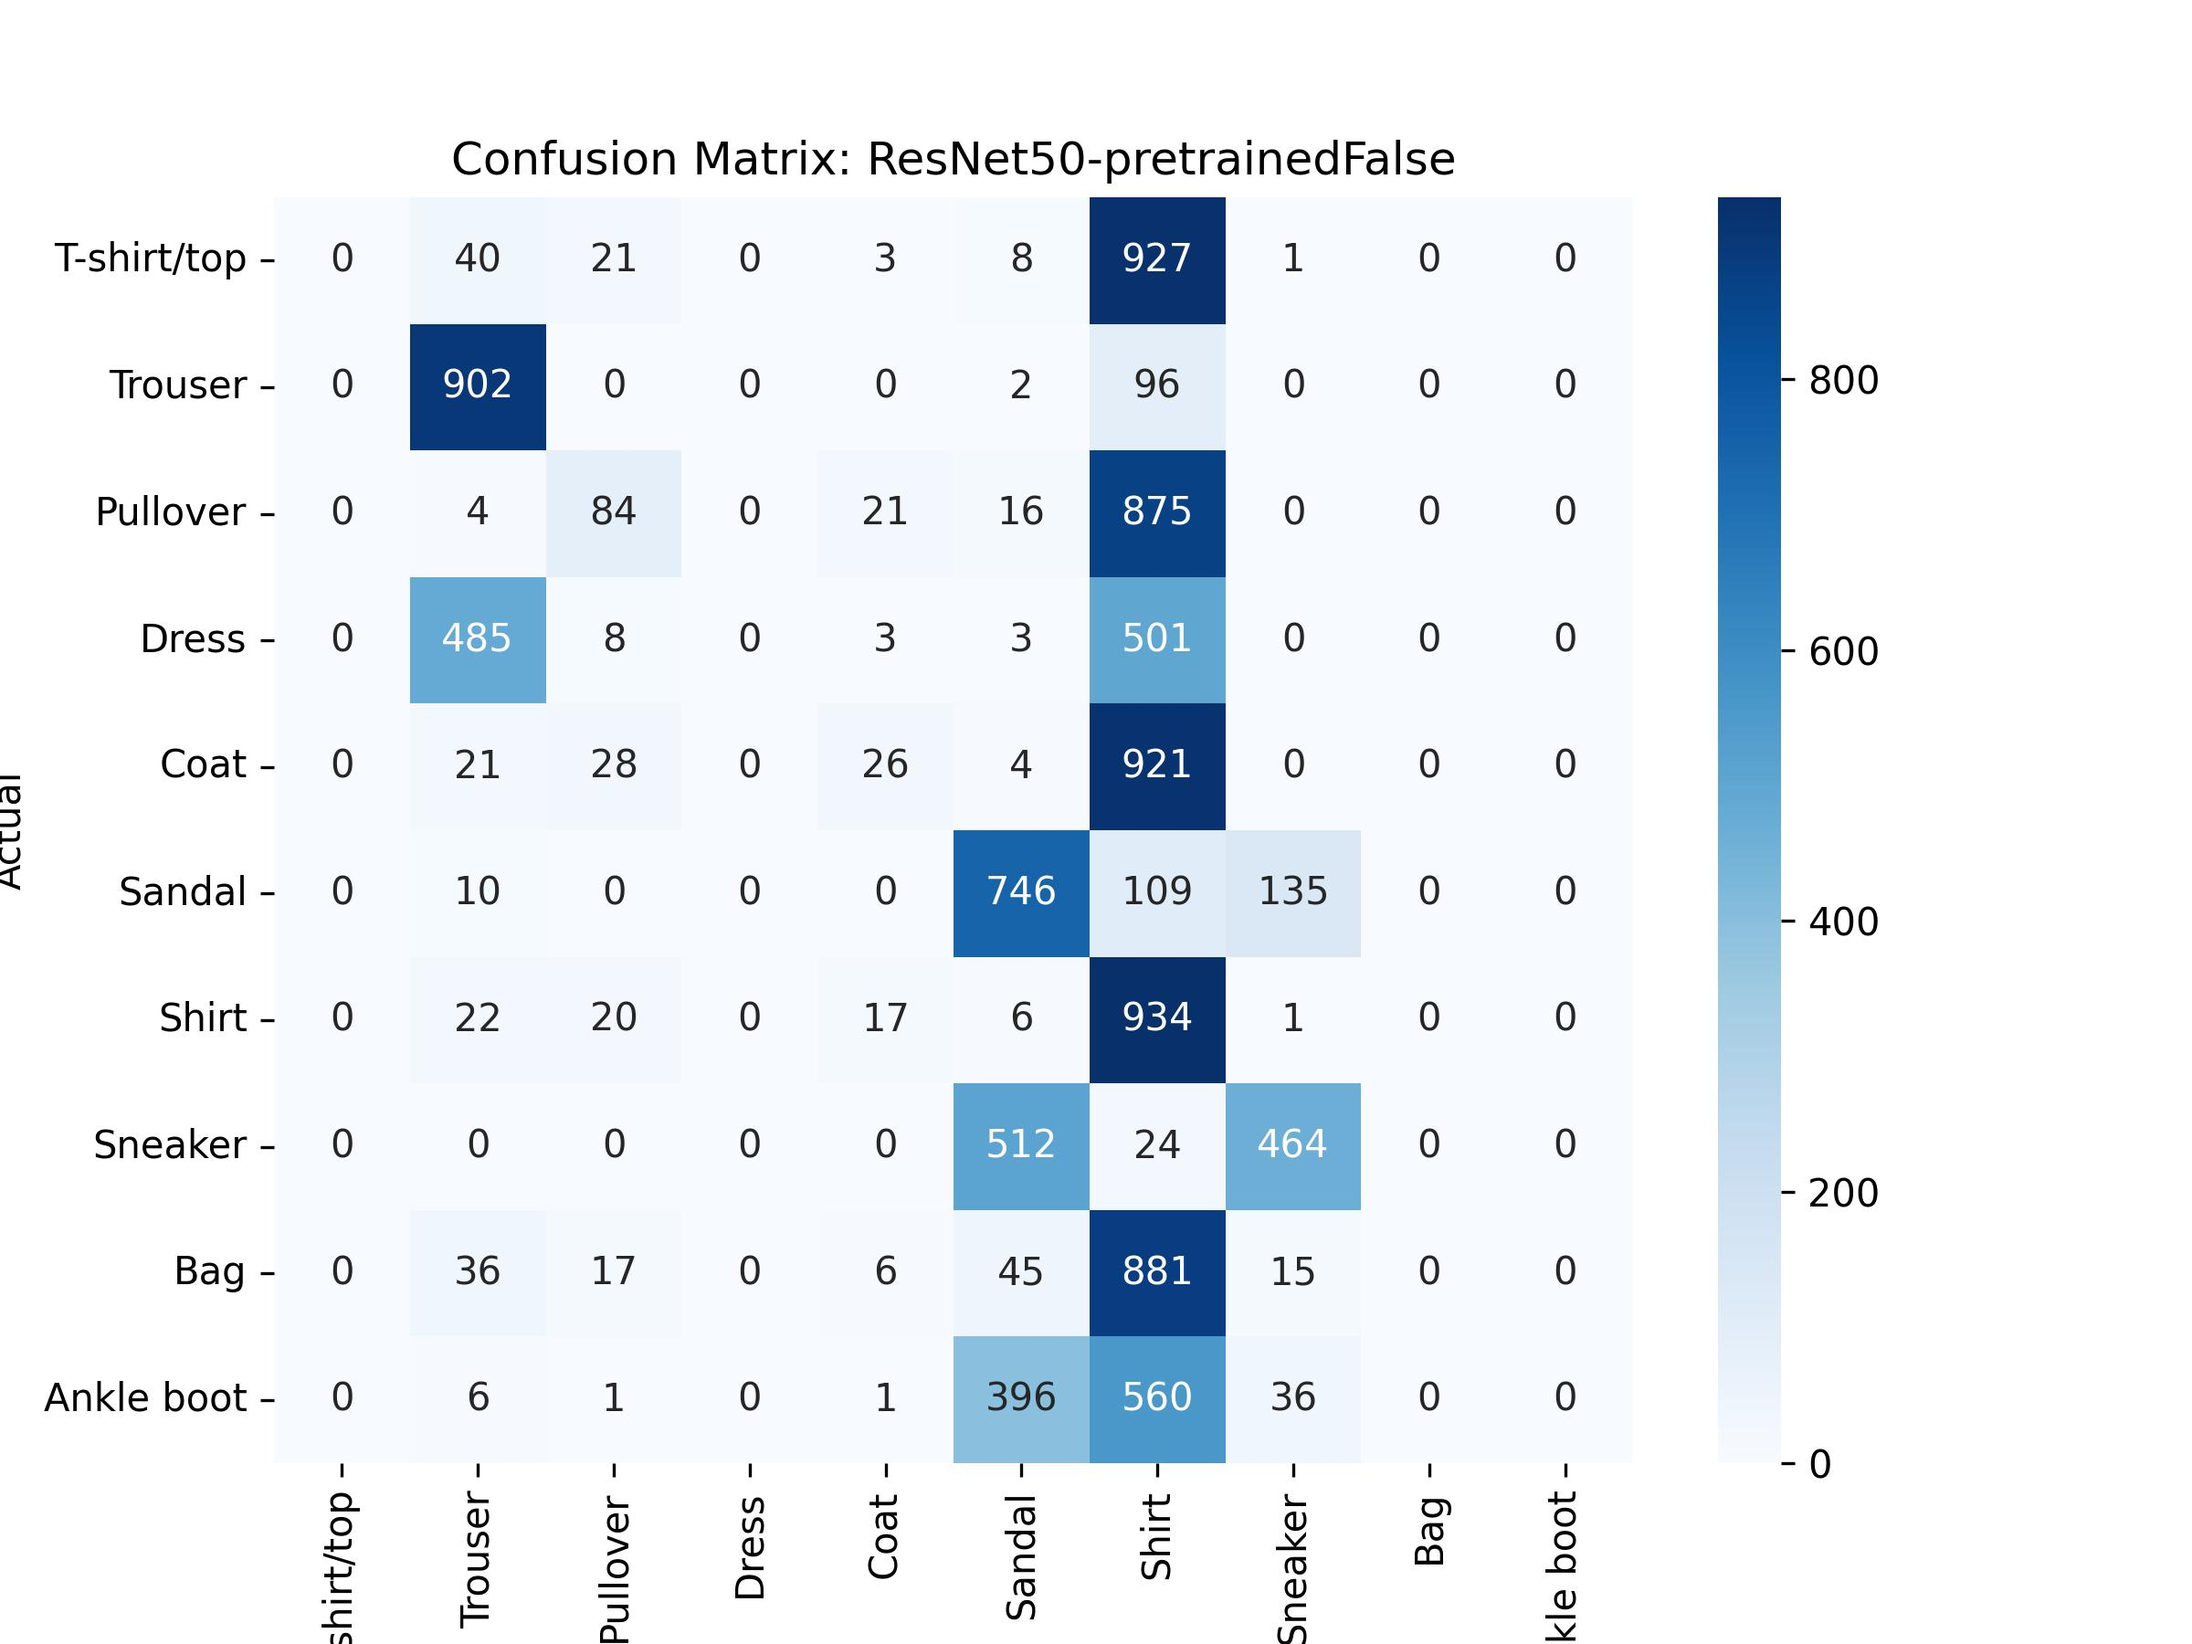
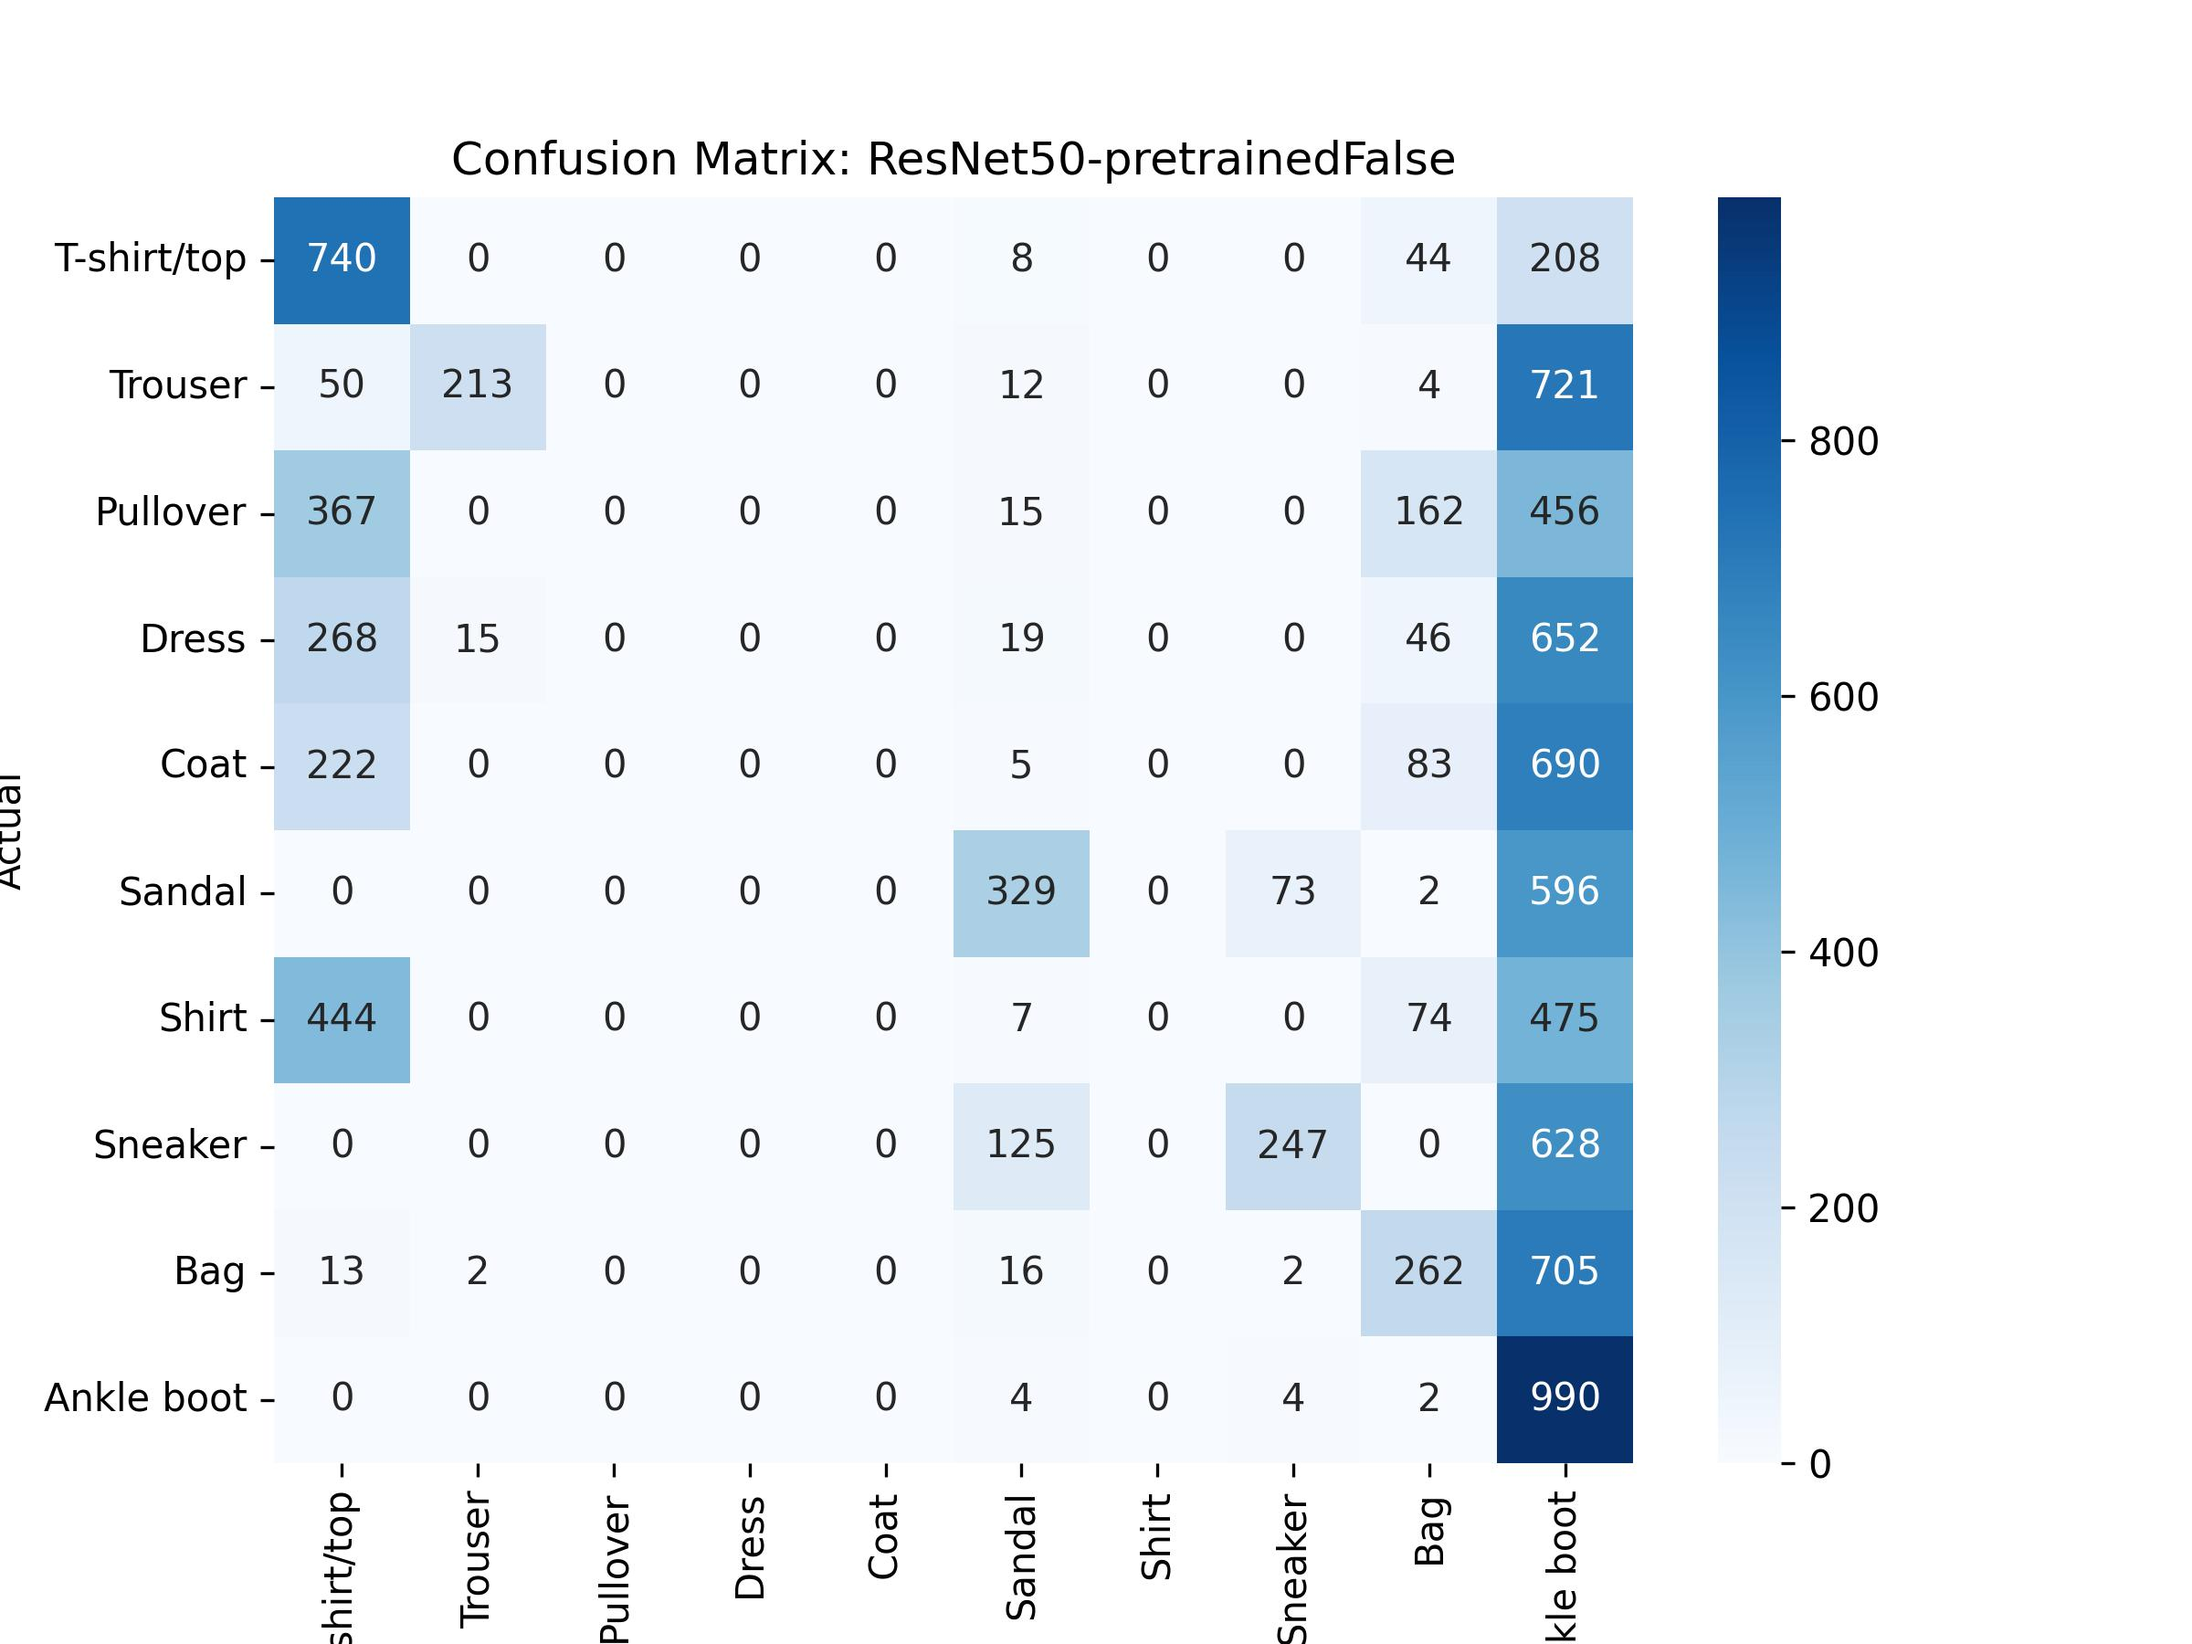
fixed a typo that was causing errors; ran expriments for ResNet50 with and without pretrained weights, to no great surprise, training the model with pretrained weights works really well, even when training for 1 epoch

diff --git a/src/pretrained_models.py b/src/pretrained_models.py
@@ -142,11 +142,11 @@ test_loader = DataLoader(test_dataset, batch_size=64, shuffle=False)
 lst_of_models = ['ResNet50']
 pretrained = [False, True]
 
-for model in lst_of_models:
+for model_name in lst_of_models:
     for flag in pretrained:
         logger.info("Starting new experiment!")   
         hyperparameters = {
-            'model_name':str(model),
+            'model_name':model_name,
             'pretrained_model':flag,
             'batchSize':64,
             'n_epochs':1,
